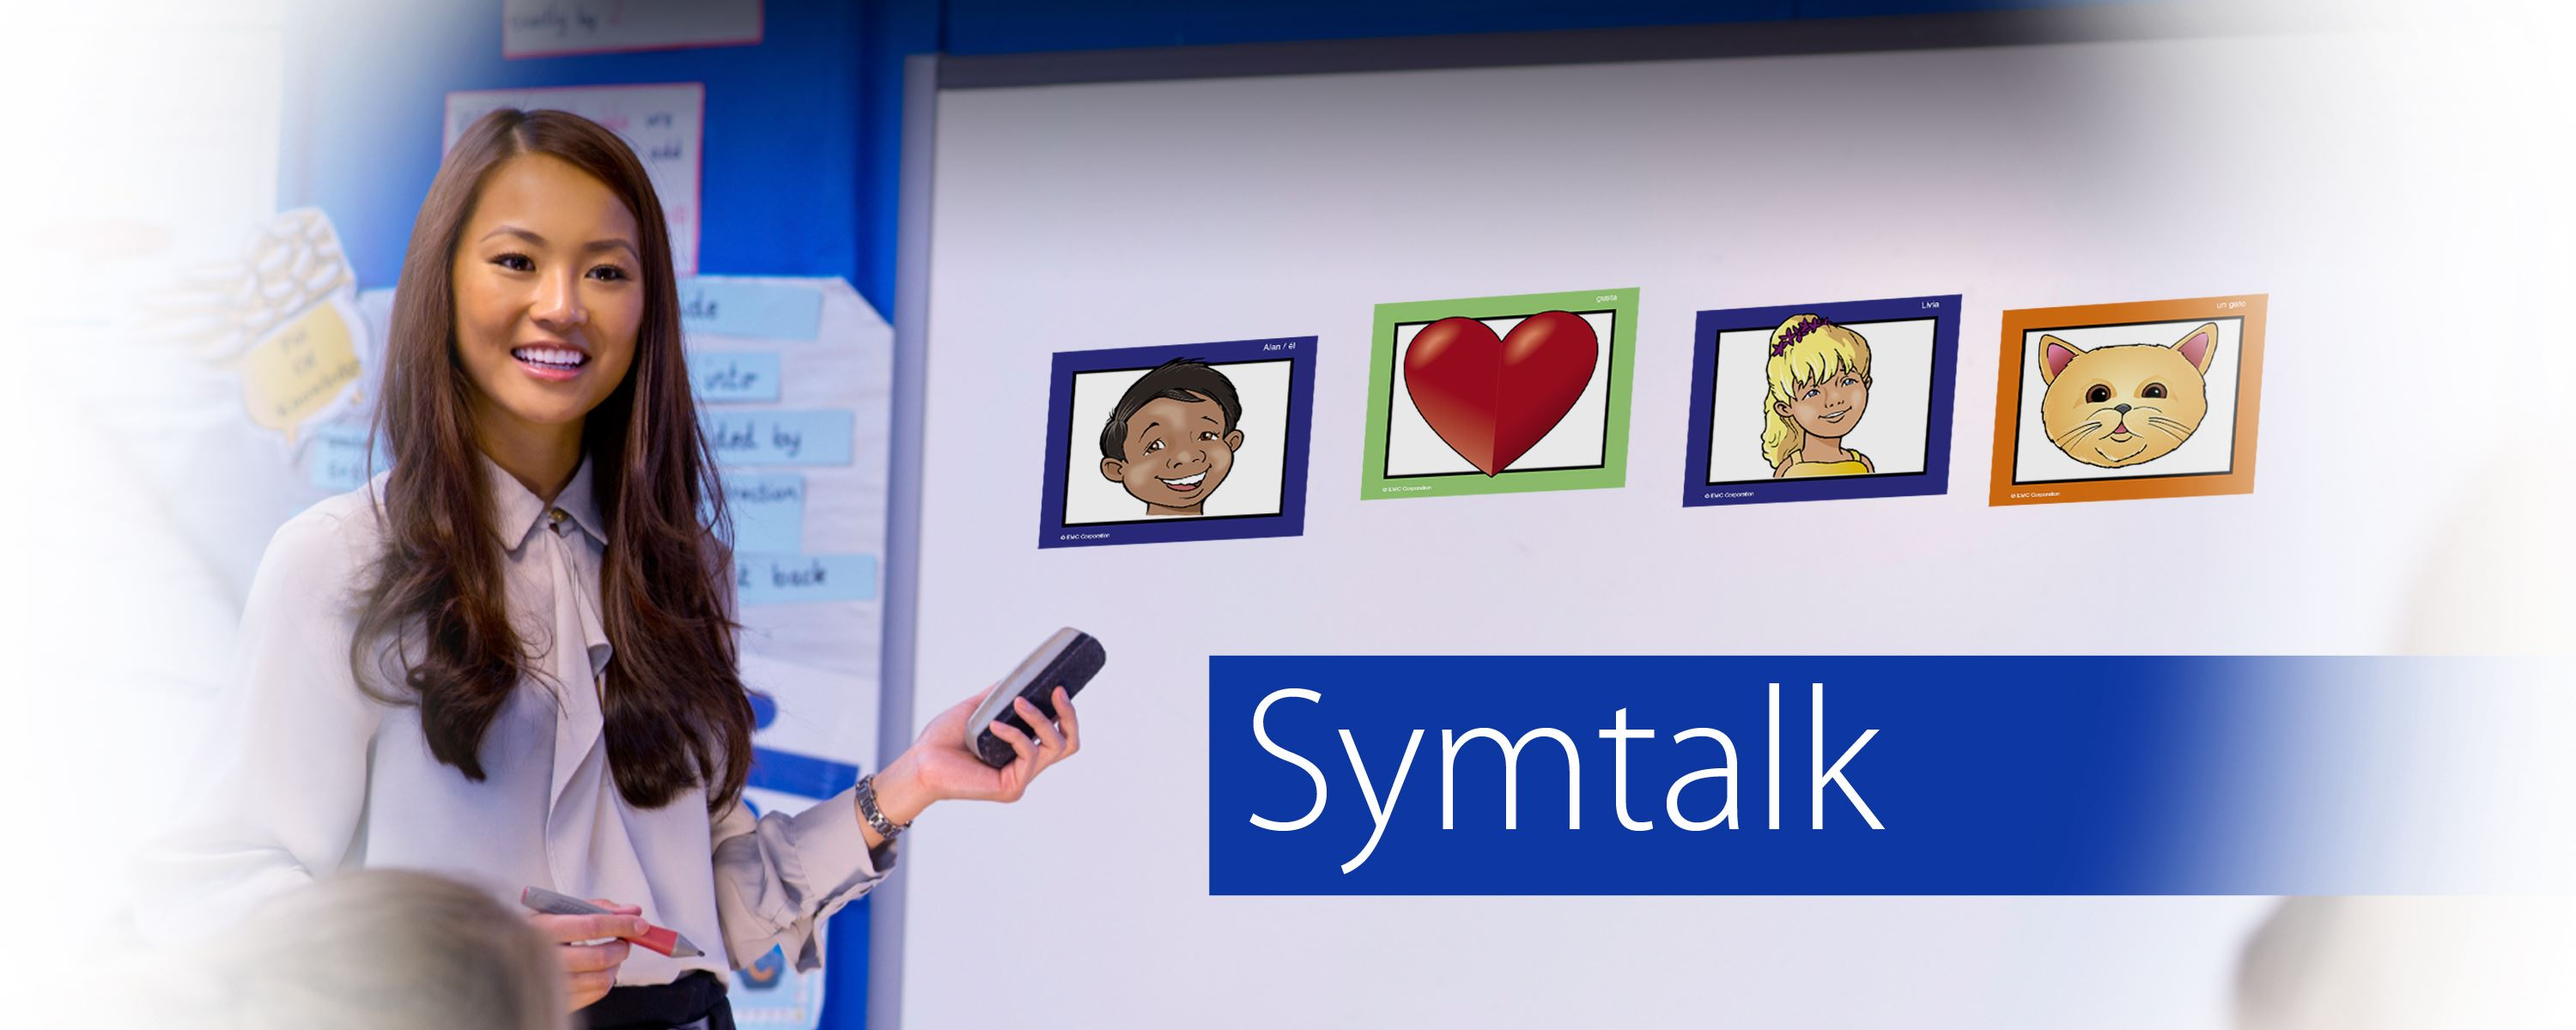
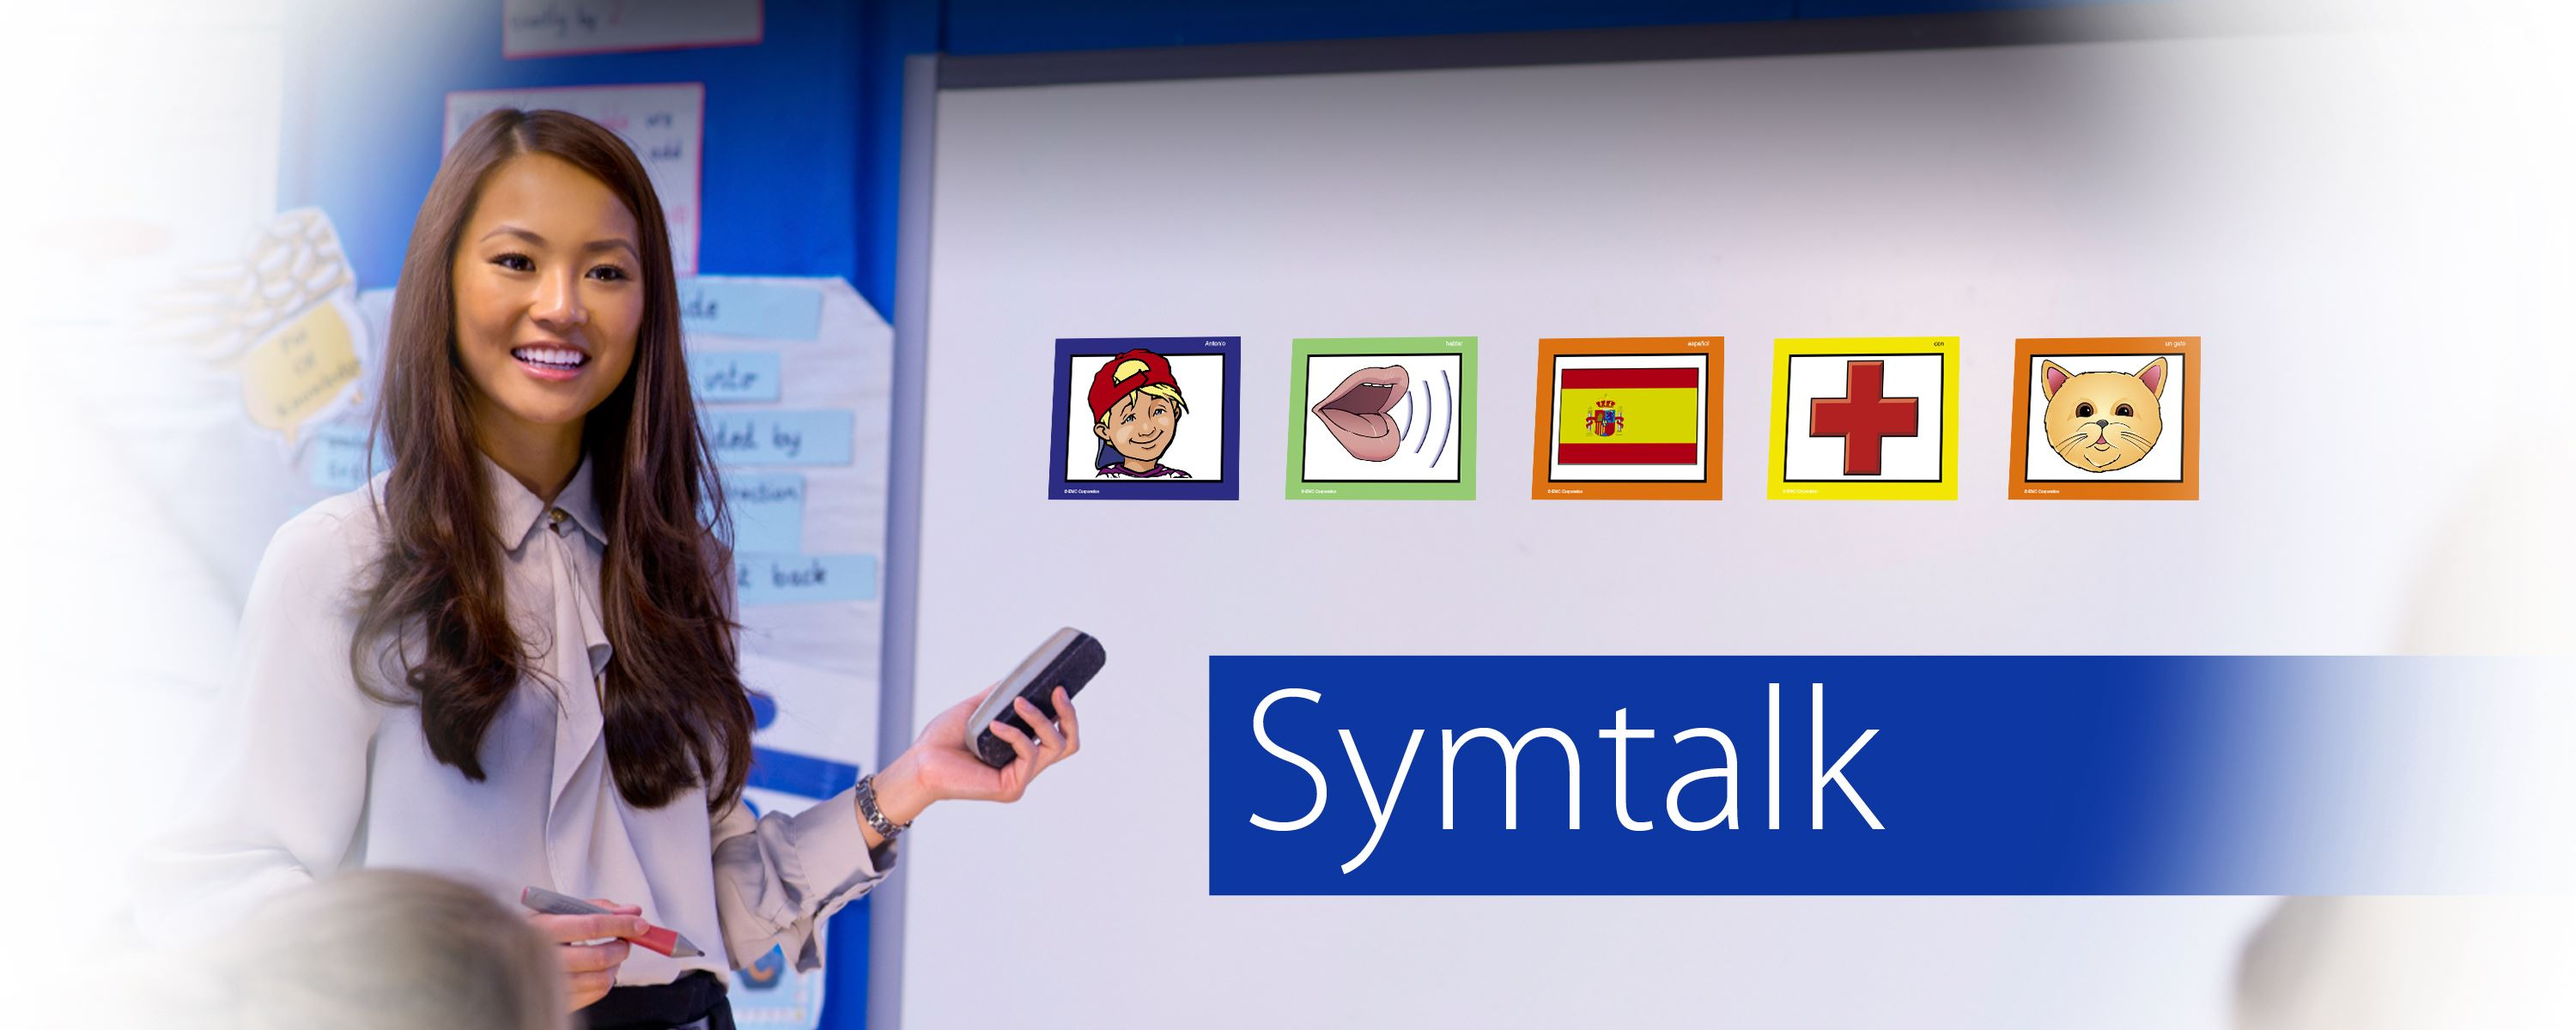
Symtalk edits
Symtalk edits

Changed region(s): [[0.403, 0.2775, 0.899, 0.555]]

diff --git a/world-languages/symtalk/index.php b/world-languages/symtalk/index.php
@@ -2,18 +2,28 @@
 	$custom_title = 'Symtalk | ';
 	include '../../includes/header.php';
 ?>
+<style>
+.ui-accordion .ui-accordion-header {
+	background: #F0EFEB !important;
+	font-size: 22px !important;
+	padding-right: .2em !important;
+}
+.redefining p {
+	font-size: 20px !important;
+}
+.ui-helper-reset {
+	font-size: 18px !important;
+}
+.ui-widget {
+	font-family: "myriad-pro", sans-serif !important;
+}
+.ui-accordion-content {
+    height: 100% !important;
+}
+</style>
 	<div id="container" class="symtalk">
-		<div class="vimeo-modal"></div>
-		<div class="header-background-image symtalk-bg">
-			<div id="topImg">
-				<div class="play-button">
-					<div class="icon-play"></div>
-				</div>
-				<div class="tech-button-container">
-                    <a class="technology-buttons teb-demo transition" href="<?php echo $server; ?>world-languages/symtalk/sample/" target="_blank" onClick="ga('send', 'event', 'Call To Action Button','click','Symtalk Sample');">Sample</a>
-                </div>
-				<div class="header-hero-hover"></div>
-			</div>
+		<div class="header-background-image symtalk-bg-new">
+			<div id="topImg"></div>
 		</div>
 		<div class="header-top">
 			<?php include '../../includes/nav.php'; ?>
@@ -21,40 +31,128 @@
 		<div class="secondary-first">
 			<div class="ninesixty">
                 <div class="entry-title">
-                    <h1>Speak a language in full sentences after the first lesson with Symtalk.</h1>
+                    <h1>Fun, Simple, Language Learning!</h1>
 				</div>
 				<div class="symtalk-left">
-					<p class="no-top">Symtalk is an effective visual language learning methodology that delivers astonishing results <strong>immediately</strong>. Using symbol cards that substitute words for self-explanatory symbols, students quickly develop a visual memory for each word and are able to create and speak in full sentences.</p>
-                    
-                    <p>Because of its unique learning methodology, Symtalk allows students and teachers to start learning language at any grade level using age appropriate vocabulary symbol cards, workbooks, and games.</p>
-                    
+					<p class="no-top"><strong>What is Symtalk?</strong>
+					Symtalk is a visual language learning methodology that delivers astonishing results immediately! Symtalk uses a picture system, each picture represents a word 
+					in the target language. What makes Symtalk unique is that the pictures represent all parts of speech. Pictures are introduced and practiced in the context of 
+					a complete sentence. Students will learn vocabulary and grammar in context and have fun interpreting the self-explanatory pictures.<br /><br />
+					
+					<a class="mw-buttons teb-demo transition" href="<?php echo $server; ?>world-languages/symtalk/sample/" target="_blank" onClick="ga('send', 'event', 'Call To Action Button','click','Symtalk Sample');">Sample</a>
+					</p>
 				</div>
-				<div class="symtalk-right">
-					<img src="<?php echo $server; ?>lib/images/symtalk-logo.png" alt="Symtalk" />
+				<div class="symtalk-right-new">
+					<img src="<?php echo $server; ?>lib/images/symtalk-ebook-page.jpg" alt="Symtalk" style="margin:-90px auto !important;" />
 				</div>
 				<div class="clearfix"></div>
 			</div>
 		</div>
-		<div class="secondary-next">
+		<div class="grey-slice" style="padding:20px 0 !important;">
 			<div class="ninesixty">
-				<div class="symtalk-left">
-                    <h3>How does it work?</h3>
-                    
-                    <ol>
-                        <li>Introduce the symbol cards in meaningful sentences</li>
-                        <li>Let students create their own sentences using the symbol cards</li>
-                        <li>Reinforce vocabulary with workbook activities</li>
-                        <li>Play the communicative games to strengthen visual memory</li>
-                    </ol>
-                    
-                    <a class="learn-more-link" href="<?php echo $server; ?>world-languages/symtalk/buy/">Buy It Now!</a>                    
+				<div class="entry-title" style="padding-bottom:15px;">
+                    <h1 style="text-align:center;">Learning Spanish is as easy as 1, 2, 3!</h1>
 				</div>
-				<div class="symtalk-right">
-					<img src="<?php echo $server; ?>lib/images/symtalk-cover.jpg" alt="Symtalk" />
+				<div>
+					<div class="symtalk-third">
+						<h1>Step #1: Learn</h1>
+					</div>
+					<div class="symtalk-third">
+						<h1>Step #2: Repeat</h1>
+					</div>
+					<div class="symtalk-third">
+						<h1>Step #3: Have fun!</h1>
+					</div>
+				</div>
+				<div class="clearfix"></div>
+				<div class="symtalk-bg">
+					<div class="symtalk-modals-container">
+						<div class="symtalk-third">
+							<div class="symtalk-1 symtalk-play-button-1">
+								<div class="play-button">
+									<div class="icon-play"></div>
+								</div>
+							</div>
+						</div>
+						<div class="symtalk-third">
+							<div class="symtalk-2 symtalk-play-button-2">
+								<div class="play-button">
+									<div class="icon-play"></div>
+								</div>
+							</div>
+						</div>
+						<div class="symtalk-third">
+							<div class="symtalk-3 symtalk-play-button-3">
+								<div class="play-button">
+									<div class="icon-play"></div>
+								</div>
+							</div>
+						</div>
+					</div>
+				</div>
+				<div>
+					<div class="symtalk-third">
+						<p class="symtalk-steps">Introduce the symbol cards in meaningful sentences</p>
+					</div>
+					<div class="symtalk-third">
+						<p class="symtalk-steps">Practice and repetition through writing and paired communication activities in the Student Workbook</p>
+					</div>
+					<div class="symtalk-third">
+						<p class="symtalk-steps">Play games to foster communicative proficiency and listening skills</p>
+					</div>
 				</div>
 				<div class="clearfix"></div>
 			</div>
-            
         </div>
-
+		<div class="no-bottom">
+            <div class="ninesixty paddingbottom40" style="margin-top:15px;">
+				<div id="accordion">
+			<!-- 1 -->
+					<h3 class="showSingle" target="1"><strong>Program Components</strong></h3>
+					<div id="div1" class="targetDiv" style="display:none;">
+                        <p><strong>Symbol Cards</strong> are at the core of the Symtalk method. Students use self-explanatory
+						symbols in the place of words to create meaningful sentences. The Symbol Cards
+						represent all parts of speech: subjects, nouns, adverbs, prepositions, and more. The
+						Symbol Cards are introduced in a meaningful sentence structure which allows students
+						to interpret the meaning immediately while grammar is implicitly learned. The cards
+						are available in two formats, as a durable magnetic card or digital images to use on any
+						interactive whiteboard. <a href="http://resources.emcp.com/pdfs/symtalk/SampleSymbolCardLesson.pdf" target="_blank" class="symtalk-link"><strong>Download a symbol card sample lesson</strong></a>.</p>
+						
+						<p><strong>Student Workbooks</strong> (also available as eBook) reinforce vocabulary through writing and 
+						paired communication activities. The vocabulary is recycled throughout the book and among levels,
+						resulting in mastery of the core vocabulary.<br />
+						<a href="http://resources.emcp.com/pdfs/symtalk/SymSPstudentedition2018.pdf" target="_blank" class="symtalk-link"><strong>Download a sample chapter</strong></a>.</p>
+						
+						<p><strong>Teacher's Edition Workbook</strong> (also available as eBook) includes the pages of the student 
+						workbooks with margin notes that include: teaching tips, additional activities, and suggested assessment. 
+						<a href="http://resources.emcp.com/pdfs/symtalk/SymSPteachersedition2018.pdf" target="_blank" class="symtalk-link"><strong>Download a sample chapter</strong></a>.</p>
+						
+						<p><strong>Games</strong> foster communication proficiency and listening skills in a meaningful context.
+						Students communicate in pairs, small groups, or as a class, using the board games.</p>
+					</div>
+			<!-- 2 -->
+					<h3 class="showSingle" target="2"><strong>Scope &amp; Sequence</strong></h3>
+					<div id="div2" class="targetDiv" style="display:none;">
+                        <p><a href="http://resources.emcp.com/pdfs/symtalk/Whatlevelisrightforme.pdf" target="_blank" class="symtalk-link"><strong>What level is right for me?</strong></a></p>
+					</div>
+			<!-- 3 -->
+					<h3 class="showSingle" target="3"><strong>Frequently asked questions (FAQs)</strong></h3>
+					<div id="div3" class="targetDiv" style="display:none;">
+                        <p><a href="http://resources.emcp.com/pdfs/symtalk/FAQs.pdf" target="_blank" class="symtalk-link"><strong>Click here to download FAQs about Symtalk</strong></a></p>
+					</div>
+				</div>
+			</div>
+		</div>
+	</div>
+	<!-- END ACCORDION -->
+<link rel="stylesheet" href="//code.jquery.com/ui/1.11.4/themes/smoothness/jquery-ui.css">
+<script src="//code.jquery.com/ui/1.11.4/jquery-ui.js"></script>
+<script>
+  $(function() {
+    $( "#accordion" ).accordion({
+      collapsible: true,
+	  active: false
+    });
+  });
+</script>
 <?php include '../../includes/footer.php'; ?>
